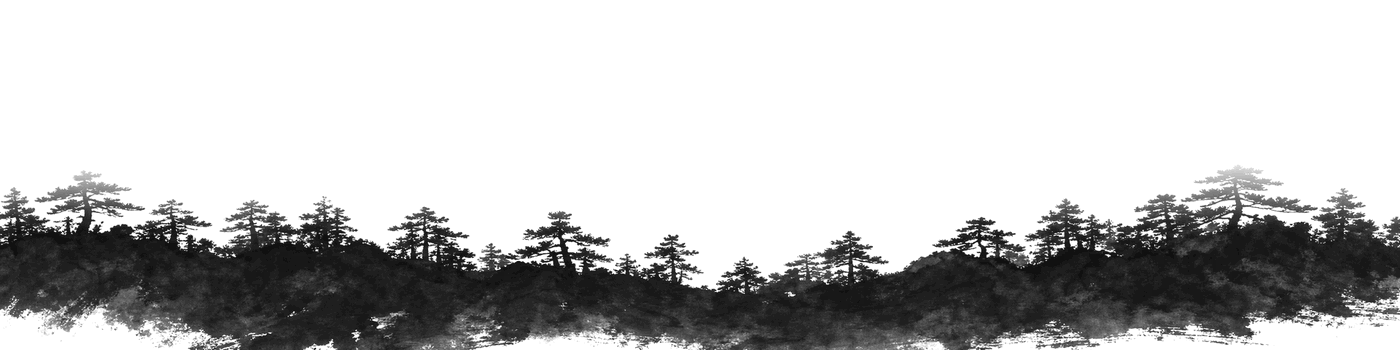
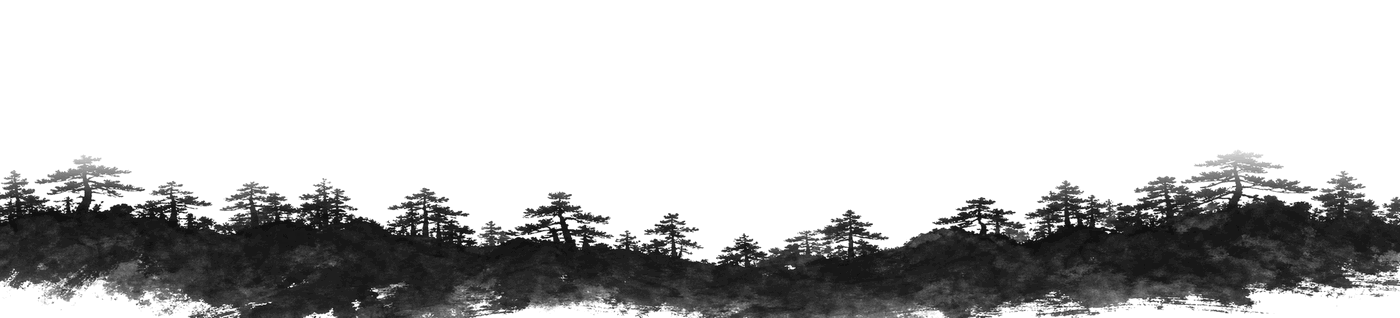
The sun reads, the type reads, and the climb is twice as long
Four things, all of them measured rather than eyeballed.

TYPE. The average contrast under the headline was already 17:1 — the useful
number was that 2-4% of the band was near-black, which is the pine tops and the
ridge lines the letters were crossing. Mean contrast says nothing about type on
an illustration; the worst local patch does. So the sentence moved up into the
quiet part of the picture (hero bottom padding 17vh -> 25vh) and the plate was
squeezed to 4.4:1 so the busy ridge stays under it. The foot line was then the
one left standing on the densest black in the whole painting at 13px, so the
mist at the foot of the print got real weight — 13.5vh reaching 0.97 white,
which is what a woodblock does at the edge of the block anyway.
Measured after: headline worst-case 4.59:1, foot line 6.71:1, both 0% dark.

THE SUN'S SIZE, which was the real "positioning" fault. The auto-fit had
squeezed it to 98px, because the mist band was taking a quarter of the screen
and the only sky left between it and the type was 105px. The band is 16vh now
and the sun is allowed to sit up INTO it — the mist is pale and a sun behind it
reads beautifully; only the type is a hard edge. 169px instead of 98.

THE CLIMB. 109px of scroll, and the ease was cubic-out, which front-loads the
travel so it felt faster still. Now 205px on a power2 curve: the whole ride goes
0.40 -> 0.62 of a viewport and the rise takes 45% of it instead of 37%.
[…]

Changed region(s): [[0.9829, 0.6509, 1.0, 0.6792], [0.0921, 0.6509, 0.1229, 0.6792]]

diff --git a/main.js b/main.js
@@ -167,8 +167,8 @@
      Slower than the reference on purpose: its circle covers in 205px, which is
      a snap you feel rather than read. Ours holds a beat longer so the disc
      registers as a shape before it becomes a flood. */
-  var INK_RIDE = 0.40;   /* fraction of a viewport the flood takes */
-  var INK_HOLD = 0.37;   /* fraction of that ride it holds its shape */
+  var INK_RIDE = 0.62;   /* fraction of a viewport the whole opening takes */
+  var INK_HOLD = 0.45;   /* fraction of that ride the sun spends climbing */
 
   /* ---------- THE SUN ----------
      One gesture, three beats, all on the scroll:
@@ -206,22 +206,30 @@
       var d = sr.width / s;                       /* the sun's own diameter */
       if (!pr.height || !d) return null;
       var ridgeY = pr.bottom - pr.height * RIDGE; /* screen y of the ridge line */
-      /* AT REST it is down in the ridge with only its top arc clear of the
-         pines. Any higher and it crosses the sentence, where a red disc behind
-         the red word `fikir` erases it. */
-      var restY = ridgeY + d * 0.34;
-      /* IT LANDS in the open band between the mist at the top and the first
-         line of the sentence — the only part of the sheet that is genuinely
-         empty, and the reason the sun has somewhere to go at all. Measured off
-         those two elements rather than off the plate, because they are what it
-         can actually collide with. */
+
+      /* THE SKY IT HAS TO FIT IN. Everything else on this screen is fixed — the
+         mist band at the top, the sentence below it — and the only genuinely
+         empty stretch is between them. Rather than pick a landing height and
+         then discover the sun collides with the type at some window size, the
+         gap is measured first and the sun is sized to it. It ends up as large
+         as the sheet can hold and never lands on a word. */
       var head = document.querySelector(".hero-head");
       var kasumi = document.querySelector(".kasumi");
       var headTop = head ? head.getBoundingClientRect().top : pr.top;
       var mistBottom = kasumi ? kasumi.getBoundingClientRect().bottom : 0;
-      var topY = headTop - d * 0.62;
-      /* never let it climb into the mist band it is supposed to rise out of */
-      topY = Math.max(topY, mistBottom + d * 0.45);
+      /* the mist is pale and the sun reads beautifully behind it, so it is
+         allowed to sit up into the band — only the TYPE is a hard edge */
+      var gapTop = mistBottom - 46, gapBot = headTop - 10;
+      var gap = gapBot - gapTop;
+      if (gap > 60 && gap < d) {
+        d = Math.max(120, gap * 0.94);
+        sun.style.width = d.toFixed(1) + "px";
+      }
+      var topY = (gapTop + gapBot) / 2;
+
+      /* AT REST roughly a third of it stands clear of the pines. Buried deeper
+         it stopped reading as a sun and became a red mark among the trees. */
+      var restY = ridgeY + d * 0.16;
       return { d: d, rest: restY, climb: Math.max(0, restY - topY) };
     }
 
@@ -268,9 +276,12 @@
         if (!geo) place();
         if (!geo) return;
         var p = self.progress;
-        /* RISE — the whole climb happens inside the old hold */
+        /* RISE — 45% of the ride, roughly 205px of scroll. It was 109px and
+           read as a jump rather than a climb. Ease is power2-out, not cubic:
+           the harder curve put most of the travel in the first few pixels,
+           which is what made it feel fast even before the distance changed. */
         var r = Math.min(1, p / HOLD);
-        r = 1 - Math.pow(1 - r, 3);              /* ease out, a sun slows as it clears */
+        r = 1 - Math.pow(1 - r, 2);
         /* FLOOD — nothing until the climb is done, then a straight ramp */
         var f = p <= HOLD ? 0 : (p - HOLD) / (1 - HOLD);
         gsap.set(sun, {
@@ -278,9 +289,16 @@
           scale: 1 + (neededScale() * 1.12 - 1) * f,
           force3D: true
         });
-        /* BURN — red goes to ink across the first third of the growth, so the
-           colour change is finished long before the disc reaches the edges */
-        if (fill) fill.style.opacity = Math.min(1, f / 0.34);
+        /* BURN — the ink no longer crossfades over the whole disc, it blooms
+           out of the core: a soft-edged black spreading from the centre until
+           it has taken the whole sun. Over 55% of the growth rather than 34%,
+           so you can actually watch the colour go. */
+        if (fill) {
+          var burn = Math.min(1, f / 0.55);
+          burn = burn * burn * (3 - 2 * burn);   /* smoothstep */
+          fill.style.opacity = Math.min(1, burn * 2.4).toFixed(3);
+          fill.style.transform = "scale(" + (0.1 + 0.9 * burn).toFixed(4) + ")";
+        }
         de.classList.toggle("sun-up", r > 0.98);
       }
     });

diff --git a/style.css b/style.css
@@ -181,7 +181,11 @@ html.past-hero .brand { opacity: 0; transform: translateY(-14px); pointer-events
      26vh keeps it a band behind the header. The crop lands mid-cloud, so the
      mask dissolves the cut instead of leaving a ruled edge — the element never
      moves, so this rasterises once and costs nothing per frame. */
-  max-height: 26vh; object-fit: cover; object-position: 50% 0%;
+  /* 16vh, not 26. The band is decoration behind the header, but at a quarter of
+     the screen it was eating the sky the sun has to rise into — the auto-sizing
+     below squeezed the sun to 98px to keep it off the type. Thinner band, room
+     for a sun. */
+  max-height: 16vh; object-fit: cover; object-position: 50% 0%;
   -webkit-mask-image: linear-gradient(180deg, #000 58%, transparent 100%);
           mask-image: linear-gradient(180deg, #000 58%, transparent 100%);
   pointer-events: none; user-select: none;
@@ -424,7 +428,7 @@ section { padding: clamp(96px, 15vh, 210px) var(--pad); position: relative; }
      low leaves the top of the sheet genuinely empty, which is where the calm
      comes from — and it is what the reference does too, its block sitting at
      377-742 of a 900 screen. The bottom padding holds it off the foot line. */
-  padding: clamp(96px, 13vh, 172px) var(--pad) clamp(126px, 17vh, 200px);
+  padding: clamp(96px, 13vh, 172px) var(--pad) clamp(150px, 25vh, 250px);
   background: var(--paper);
   /* NOT overflow:hidden — the ink has to grow past the hero. The ground layer
      one level down does its own clipping. */
@@ -463,11 +467,17 @@ section { padding: clamp(96px, 15vh, 210px) var(--pad); position: relative; }
    fight the sun on its way up. */
 .hero-ground::after {
   content: ""; position: absolute; left: 0; right: 0; bottom: 0; z-index: 2;
-  /* The mist at the foot of the print is painted INTO the picture now, where a
-     woodblock would put it, so this is only a safety net for whatever art
-     happens to land under the foot line at an unusual aspect ratio. */
-  height: clamp(36px, 4.5vh, 60px); pointer-events: none;
-  background: linear-gradient(180deg, rgba(255,255,255,0) 0%, rgba(255,255,255,0.2) 60%, rgba(255,255,255,0.38) 100%);
+  /* The mist at the foot of the print, and it carries real weight now. The
+     scene ends on the densest black in the whole painting and the foot line —
+     the seal, the credo, the ink toy — sits right on it at 13-19px. A wash
+     this deep is what a woodblock does at the edge of the block anyway, and it
+     is the difference between that line being readable and being lost.
+     Measured against the ridge, not guessed: the bottom 100px is where the
+     pine mass is solid. */
+  height: clamp(94px, 13.5vh, 158px); pointer-events: none;
+  background: linear-gradient(180deg,
+    rgba(255,255,255,0) 0%, rgba(255,255,255,0.34) 38%,
+    rgba(255,255,255,0.80) 68%, rgba(255,255,255,0.97) 100%);
 }
 /* Each layer's resting opacity lives in --o, not in `opacity` directly: the
    entrance fades each image to its OWN resting value as it decodes, so a
@@ -493,7 +503,7 @@ section { padding: clamp(96px, 15vh, 210px) var(--pad); position: relative; }
   /* The width rule is what guarantees full bleed: a plain percentage starves
      the plate on a phone (100% of 390px leaves a 75px sliver), so it takes a
      floor in px. */
-  width: max(112%, 1080px); max-width: none; height: auto;
+  width: max(106%, 1080px); max-width: none; height: auto;
   transform: translateX(-50%);
   --o: 1; opacity: var(--o);
   will-change: transform, opacity;
@@ -527,8 +537,17 @@ section { padding: clamp(96px, 15vh, 210px) var(--pad); position: relative; }
 }
 /* the painted brush rim, recoloured to the seal red */
 .sun-ink { will-change: opacity; }
-/* the ink it becomes on the way to flooding the page */
-.sun-fill { background: var(--ink); opacity: 0; will-change: opacity; }
+/* The ink it becomes. Not a flat crossfade over the disc — a soft-edged black
+   that blooms out of the core and takes the sun from the inside, which is what
+   a sun burning down actually looks like. Inset past the brush edge so that by
+   the time it is full there is no vermilion rim left to blow up to a red ring
+   when the disc floods the page. */
+.sun-fill {
+  inset: -2%;
+  background: radial-gradient(circle, var(--ink) 84%, rgba(17,17,17,0) 100%);
+  opacity: 0; transform: scale(0.1); transform-origin: 50% 50%;
+  will-change: transform, opacity;
+}
 /* THE SWAP, and the whole thing depends on it. While it climbs, the sun must
    pass BEHIND the pine ridge (z 3) and behind the sentence (z 5). Once it has
    cleared the range there is nothing left to hide it, and it has to be able to

diff --git a/index-tr.html b/index-tr.html
@@ -36,9 +36,9 @@
   <link rel="manifest" href="/site.webmanifest">
   <link rel="preload" as="font" type="font/woff2" href="assets/fonts/shippori-800.woff2" crossorigin>
   <link rel="preload" as="font" type="font/woff2" href="assets/fonts/manrope-var.woff2" crossorigin>
-  <link rel="preload" as="image" imagesrcset="assets/horizon-900.webp?s=3 900w, assets/horizon-1400.webp?s=3 1400w, assets/horizon.webp?s=3 1920w" imagesizes="110vw" fetchpriority="high">
-  <link rel="preload" as="image" href="assets/sun-ink.webp?s=3" fetchpriority="high">
-  <link rel="stylesheet" href="style.css?v=120">
+  <link rel="preload" as="image" imagesrcset="assets/horizon-900.webp?s=4 900w, assets/horizon-1400.webp?s=4 1400w, assets/horizon.webp?s=4 1920w" imagesizes="110vw" fetchpriority="high">
+  <link rel="preload" as="image" href="assets/sun-ink.webp?s=4" fetchpriority="high">
+  <link rel="stylesheet" href="style.css?v=124">
   <script type="application/ld+json">
   {"@context": "https://schema.org", "@type": "Organization", "name": "217 Products", "url": "https://217products.com/", "logo": "https://217products.com/assets/icon-512.png", "image": "https://217products.com/assets/zen.webp?w=1", "description": "Ankara’dan dünyaya açılan bağımsız bir ürün şirketiyiz. Gördüğümüz boşluklara hızlı, sade ve uzun ömürlü ürünler inşa ediyoruz.", "email": "destek217product@gmail.com", "foundingDate": "2026", "address": {"@type": "PostalAddress", "addressLocality": "Ankara", "addressCountry": "TR"}}
   </script>
@@ -73,9 +73,9 @@
     <!-- 1 · HERO — one sentence on paper, the plate at its foot -->
     <section class="hero">
       <div class="hero-ground" id="scene" aria-hidden="true">
-        <img decoding="async" class="hz hz-back" data-depth="0.22" src="assets/horizon.webp?s=3" srcset="assets/horizon-900.webp?s=3 900w, assets/horizon-1400.webp?s=3 1400w, assets/horizon.webp?s=3 1920w" sizes="110vw" alt="" width="1920" height="480" fetchpriority="high">
-        <span class="sun" id="sun"><img class="sun-ink" src="assets/sun-ink.webp?s=3" alt="" width="320" height="320" decoding="sync" fetchpriority="high"><i class="sun-fill"></i></span>
-        <img decoding="async" class="hz hz-front" data-depth="0.22" src="assets/horizon-front.webp?s=3" srcset="assets/horizon-front-900.webp?s=3 900w, assets/horizon-front-1400.webp?s=3 1400w, assets/horizon-front.webp?s=3 1920w" sizes="110vw" alt="" width="1920" height="480">
+        <img decoding="async" class="hz hz-back" data-depth="0.22" src="assets/horizon.webp?s=4" srcset="assets/horizon-900.webp?s=4 900w, assets/horizon-1400.webp?s=4 1400w, assets/horizon.webp?s=4 1920w" sizes="110vw" alt="" width="1920" height="436" fetchpriority="high">
+        <span class="sun" id="sun"><img class="sun-ink" src="assets/sun-ink.webp?s=4" alt="" width="320" height="320" decoding="sync" fetchpriority="high"><i class="sun-fill"></i></span>
+        <img decoding="async" class="hz hz-front" data-depth="0.22" src="assets/horizon-front.webp?s=4" srcset="assets/horizon-front-900.webp?s=4 900w, assets/horizon-front-1400.webp?s=4 1400w, assets/horizon-front.webp?s=4 1920w" sizes="110vw" alt="" width="1920" height="436">
       </div>
       <img class="kasumi" aria-hidden="true" decoding="async" src="assets/kasumi.webp?w=1" srcset="assets/kasumi-900.webp?w=1 900w, assets/kasumi-1400.webp?w=1 1400w, assets/kasumi.webp?w=1 1920w" sizes="110vw" alt="" width="1920" height="576">
       <div class="specks" aria-hidden="true"><i></i><i></i><i></i><i></i><i></i><i></i><i></i><i></i><i></i><i></i><i></i><i></i><i></i><i></i><i></i><i></i></div>
@@ -296,6 +296,6 @@
   <script src="vendor/gsap.min.js?v=3.15.0"></script>
   <script src="vendor/ScrollTrigger.min.js?v=3.15.0"></script>
   <script src="vendor/lenis.min.js?v=1.3.25"></script>
-  <script src="main.js?v=78"></script>
+  <script src="main.js?v=80"></script>
 </body>
 </html>

diff --git a/index.html b/index.html
@@ -36,9 +36,9 @@
   <link rel="manifest" href="/site.webmanifest">
   <link rel="preload" as="font" type="font/woff2" href="assets/fonts/shippori-800.woff2" crossorigin>
   <link rel="preload" as="font" type="font/woff2" href="assets/fonts/manrope-var.woff2" crossorigin>
-  <link rel="preload" as="image" imagesrcset="assets/horizon-900.webp?s=3 900w, assets/horizon-1400.webp?s=3 1400w, assets/horizon.webp?s=3 1920w" imagesizes="110vw" fetchpriority="high">
-  <link rel="preload" as="image" href="assets/sun-ink.webp?s=3" fetchpriority="high">
-  <link rel="stylesheet" href="style.css?v=120">
+  <link rel="preload" as="image" imagesrcset="assets/horizon-900.webp?s=4 900w, assets/horizon-1400.webp?s=4 1400w, assets/horizon.webp?s=4 1920w" imagesizes="110vw" fetchpriority="high">
+  <link rel="preload" as="image" href="assets/sun-ink.webp?s=4" fetchpriority="high">
+  <link rel="stylesheet" href="style.css?v=124">
   <script type="application/ld+json">
   {"@context": "https://schema.org", "@type": "Organization", "name": "217 Products", "url": "https://217products.com/", "logo": "https://217products.com/assets/icon-512.png", "image": "https://217products.com/assets/zen.webp?w=1", "description": "An independent product company reaching from Ankara to the world. Where we see a gap, we build products that are fast, simple, and made to last.", "email": "destek217product@gmail.com", "foundingDate": "2026", "address": {"@type": "PostalAddress", "addressLocality": "Ankara", "addressCountry": "TR"}}
   </script>
@@ -73,9 +73,9 @@
     <!-- 1 · HERO (3D parallax) -->
     <section class="hero">
       <div class="hero-ground" id="scene" aria-hidden="true">
-        <img decoding="async" class="hz hz-back" data-depth="0.22" src="assets/horizon.webp?s=3" srcset="assets/horizon-900.webp?s=3 900w, assets/horizon-1400.webp?s=3 1400w, assets/horizon.webp?s=3 1920w" sizes="110vw" alt="" width="1920" height="480" fetchpriority="high">
-        <span class="sun" id="sun"><img class="sun-ink" src="assets/sun-ink.webp?s=3" alt="" width="320" height="320" decoding="sync" fetchpriority="high"><i class="sun-fill"></i></span>
-        <img decoding="async" class="hz hz-front" data-depth="0.22" src="assets/horizon-front.webp?s=3" srcset="assets/horizon-front-900.webp?s=3 900w, assets/horizon-front-1400.webp?s=3 1400w, assets/horizon-front.webp?s=3 1920w" sizes="110vw" alt="" width="1920" height="480">
+        <img decoding="async" class="hz hz-back" data-depth="0.22" src="assets/horizon.webp?s=4" srcset="assets/horizon-900.webp?s=4 900w, assets/horizon-1400.webp?s=4 1400w, assets/horizon.webp?s=4 1920w" sizes="110vw" alt="" width="1920" height="436" fetchpriority="high">
+        <span class="sun" id="sun"><img class="sun-ink" src="assets/sun-ink.webp?s=4" alt="" width="320" height="320" decoding="sync" fetchpriority="high"><i class="sun-fill"></i></span>
+        <img decoding="async" class="hz hz-front" data-depth="0.22" src="assets/horizon-front.webp?s=4" srcset="assets/horizon-front-900.webp?s=4 900w, assets/horizon-front-1400.webp?s=4 1400w, assets/horizon-front.webp?s=4 1920w" sizes="110vw" alt="" width="1920" height="436">
       </div>
       <img class="kasumi" aria-hidden="true" decoding="async" src="assets/kasumi.webp?w=1" srcset="assets/kasumi-900.webp?w=1 900w, assets/kasumi-1400.webp?w=1 1400w, assets/kasumi.webp?w=1 1920w" sizes="110vw" alt="" width="1920" height="576">
       <div class="specks" aria-hidden="true"><i></i><i></i><i></i><i></i><i></i><i></i><i></i><i></i><i></i><i></i><i></i><i></i><i></i><i></i><i></i><i></i></div>
@@ -296,6 +296,6 @@
   <script src="vendor/gsap.min.js?v=3.15.0"></script>
   <script src="vendor/ScrollTrigger.min.js?v=3.15.0"></script>
   <script src="vendor/lenis.min.js?v=1.3.25"></script>
-  <script src="main.js?v=78"></script>
+  <script src="main.js?v=80"></script>
 </body>
 </html>
